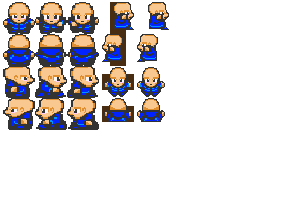
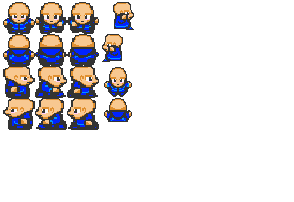
I removed the bench from character.png
Thank you @mosmowora for giving me this idea

diff --git a/sprites.py b/sprites.py
@@ -113,12 +113,8 @@ class Player(pygame.sprite.Sprite):
         if self.player_sitting:
             self.rect.x = self.x_change
             self.rect.y = self.y_change
-            if self.facing in ("right", "left"): 
-                if self.game.interacted[0] != "Taburetka": self.image = self.game.character_spritesheet.get_sprite(102, 34, self.width, self.height) if self.facing == "right" else self.game.character_spritesheet.get_sprite(102, 2, self.width, self.height)
-                else: self.image = self.game.character_spritesheet.get_sprite(137, 34, self.width, self.height) if self.facing == "right" else self.game.character_spritesheet.get_sprite(137, 2, self.width, self.height)
-            else: 
-                if self.game.interacted[0] != "Taburetka": self.image = self.game.character_spritesheet.get_sprite(102, 66, self.width, self.height) if self.facing == "up" else self.game.character_spritesheet.get_sprite(102, 98, self.width, self.height)
-                else: self.image = self.game.character_spritesheet.get_sprite(135, 66, self.width, self.height) if self.facing == "up" else self.game.character_spritesheet.get_sprite(135, 98, self.width, self.height)
+            if self.facing in ("right", "left"): self.image = self.game.character_spritesheet.get_sprite(102, 34, self.width, self.height) if self.facing == "right" else self.game.character_spritesheet.get_sprite(102, 2, self.width, self.height)
+            else: self.image = self.game.character_spritesheet.get_sprite(102, 66, self.width, self.height) if self.facing == "up" else self.game.character_spritesheet.get_sprite(102, 98, self.width, self.height)
 
         # Not sitting
         else: 
